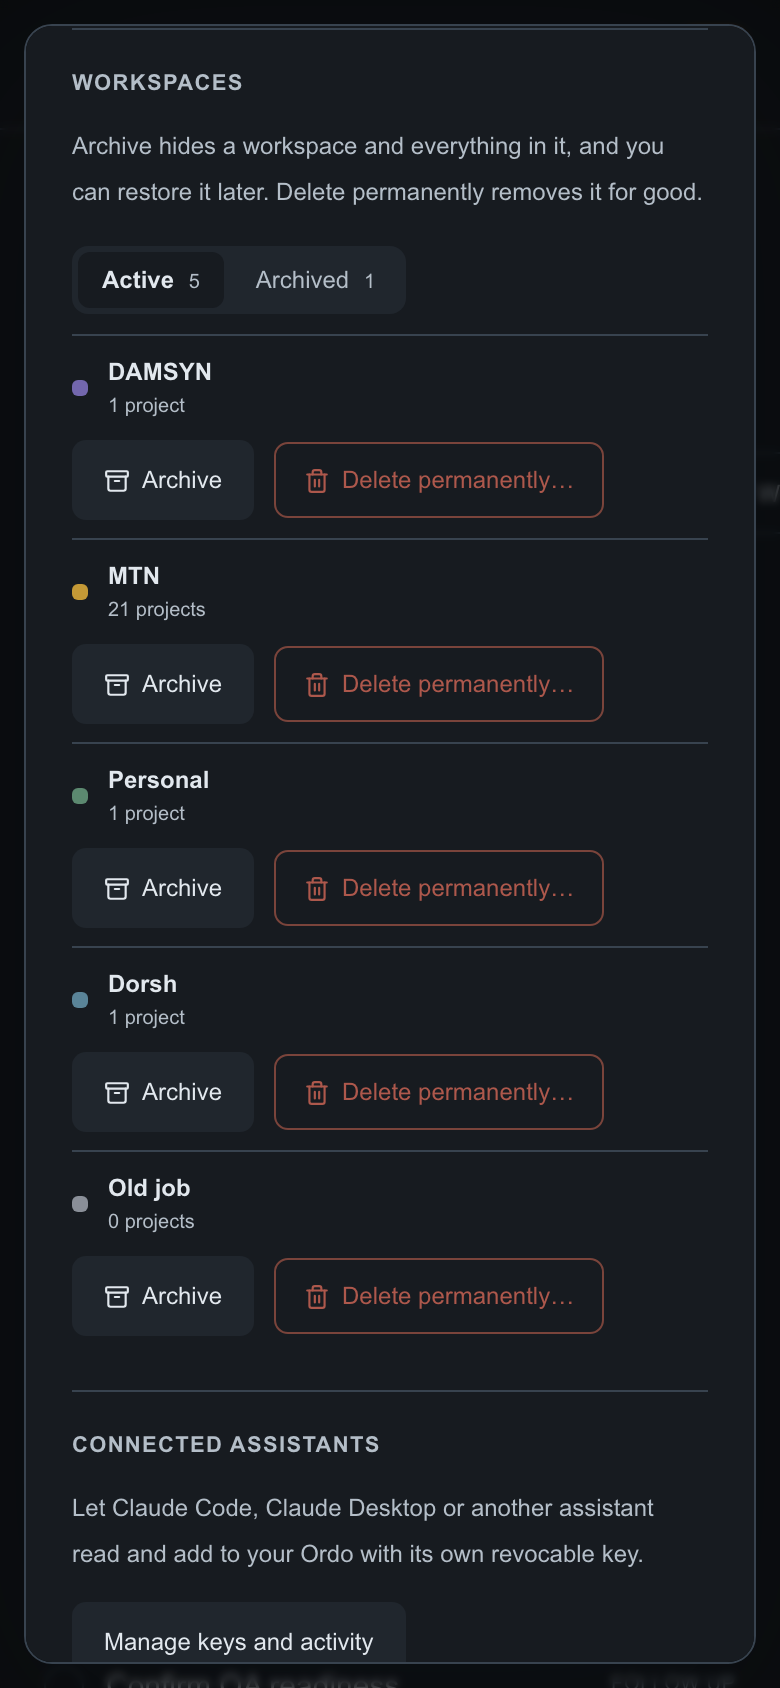
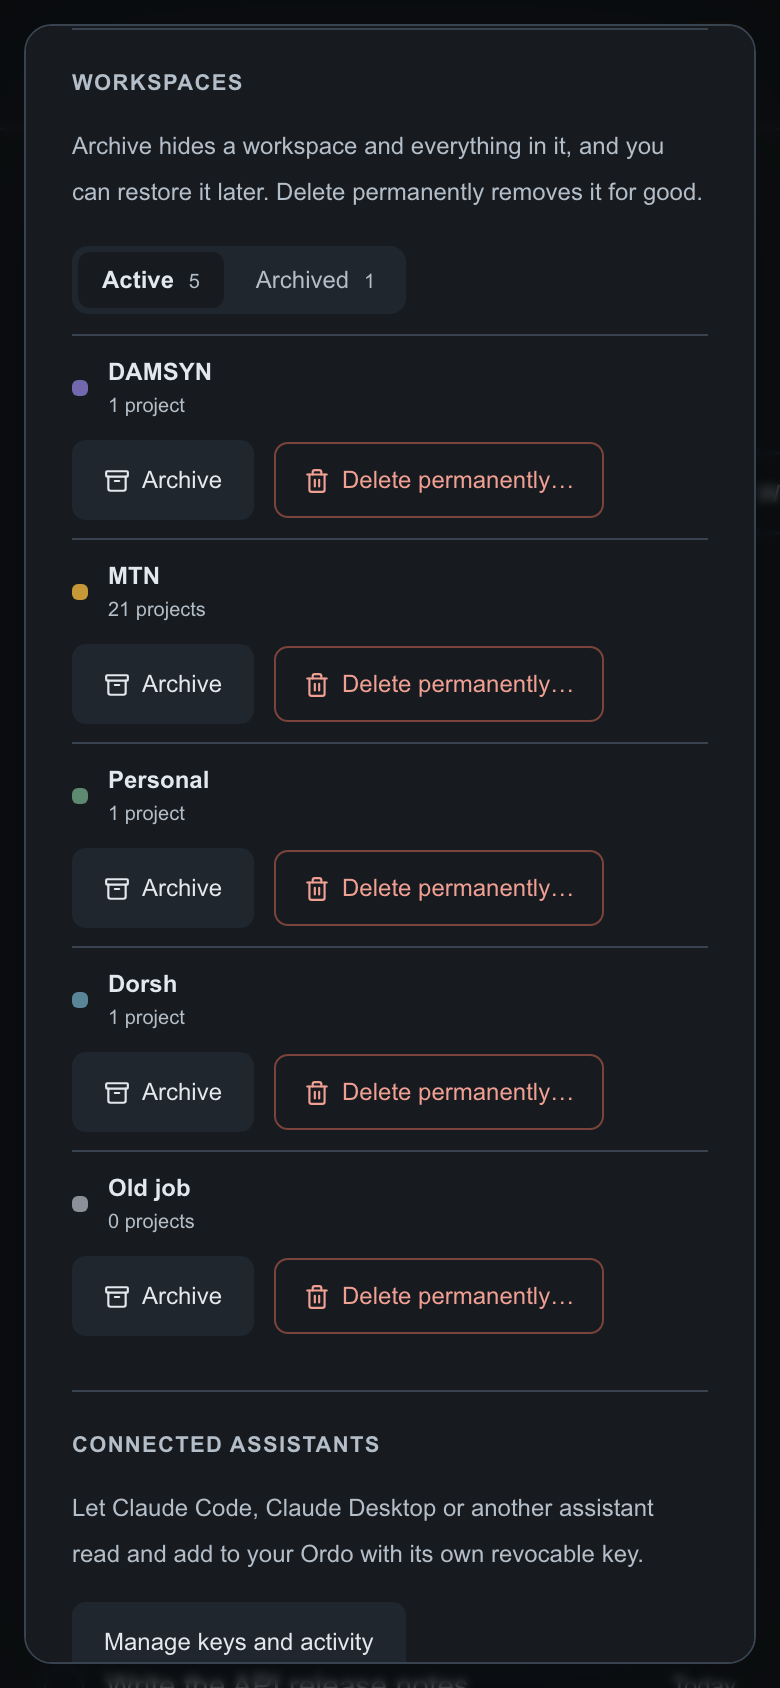
style(web): Delete permanently in readable danger red everywhere
The outline Delete buttons and the delete section heading use the
existing --danger-ink token instead of --danger, so the red label and
icon stay readable in dark mode (about 8:1, and 6:1 in light). The
menu's Delete item already used it; the confirm button stays solid red
with a white label. Archive stays neutral.

diff --git a/apps/web/app/globals.css b/apps/web/app/globals.css
@@ -3310,7 +3310,8 @@ fieldset:disabled select {
   margin: 0 0 6px;
   font-size: 12px;
   font-weight: 600;
-  color: var(--danger);
+  /* --danger-ink keeps red text readable on light and dark backgrounds. */
+  color: var(--danger-ink);
 }
 .danger-zone .muted {
   margin: 0 0 12px;
@@ -3323,7 +3324,7 @@ fieldset:disabled select {
   border-radius: 7px;
   border: 1px solid light-dark(#e3b2a9, #7a443b);
   background: var(--bg);
-  color: var(--danger);
+  color: var(--danger-ink);
   font-size: 12px;
   font-weight: 500;
 }
